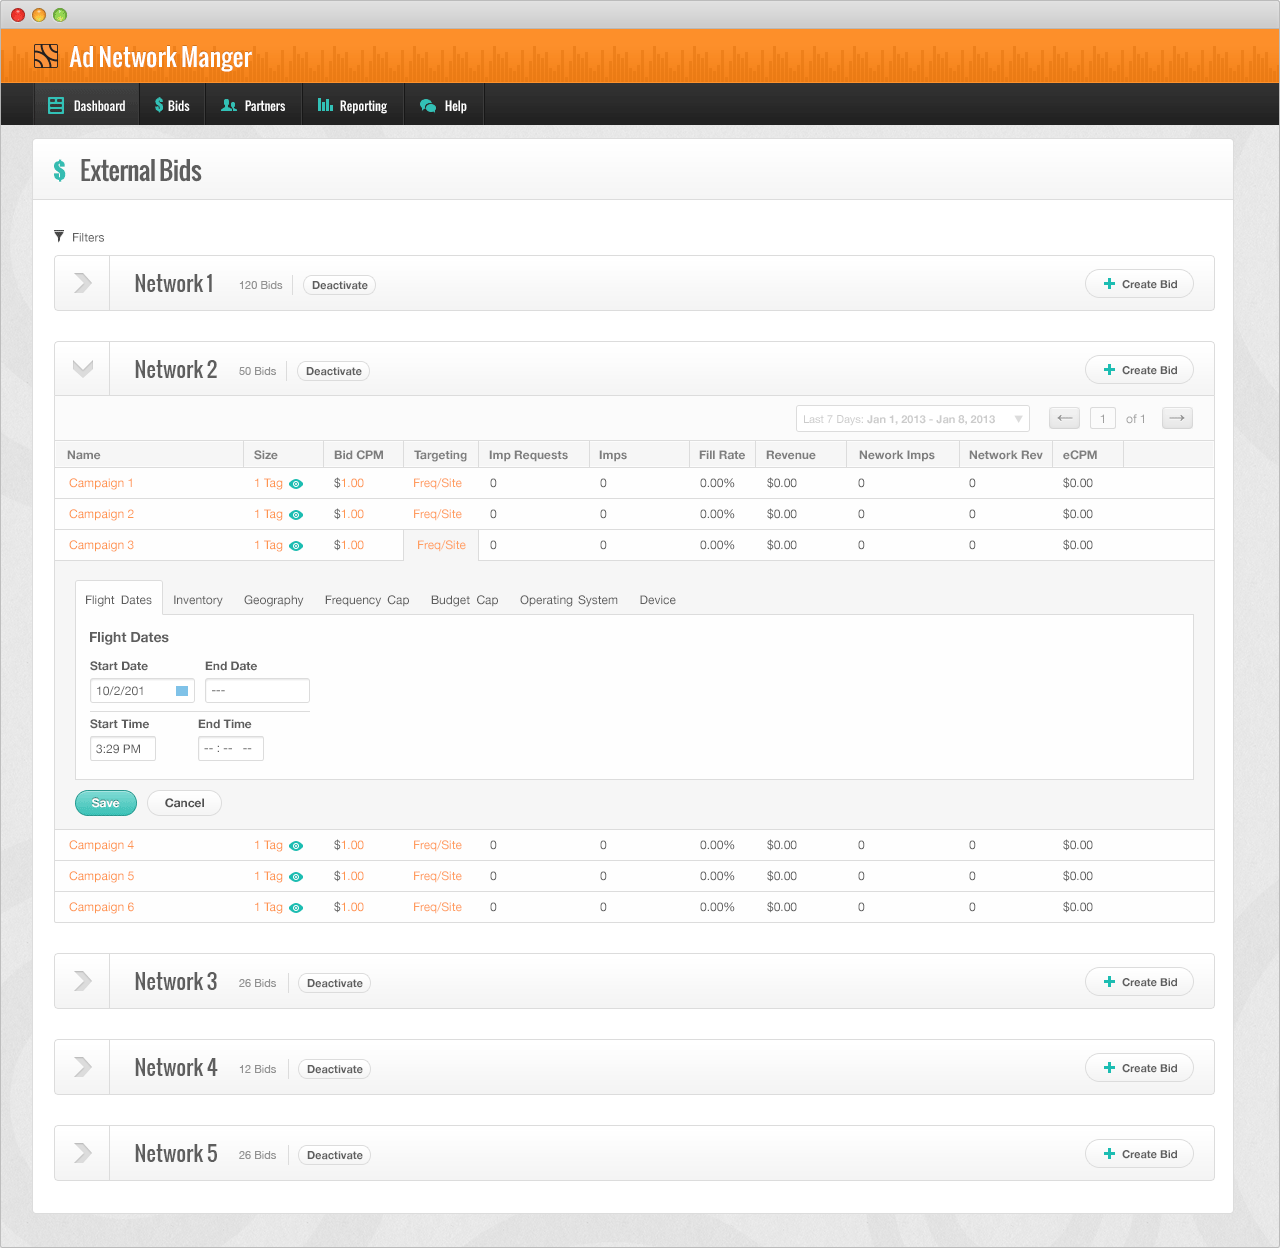
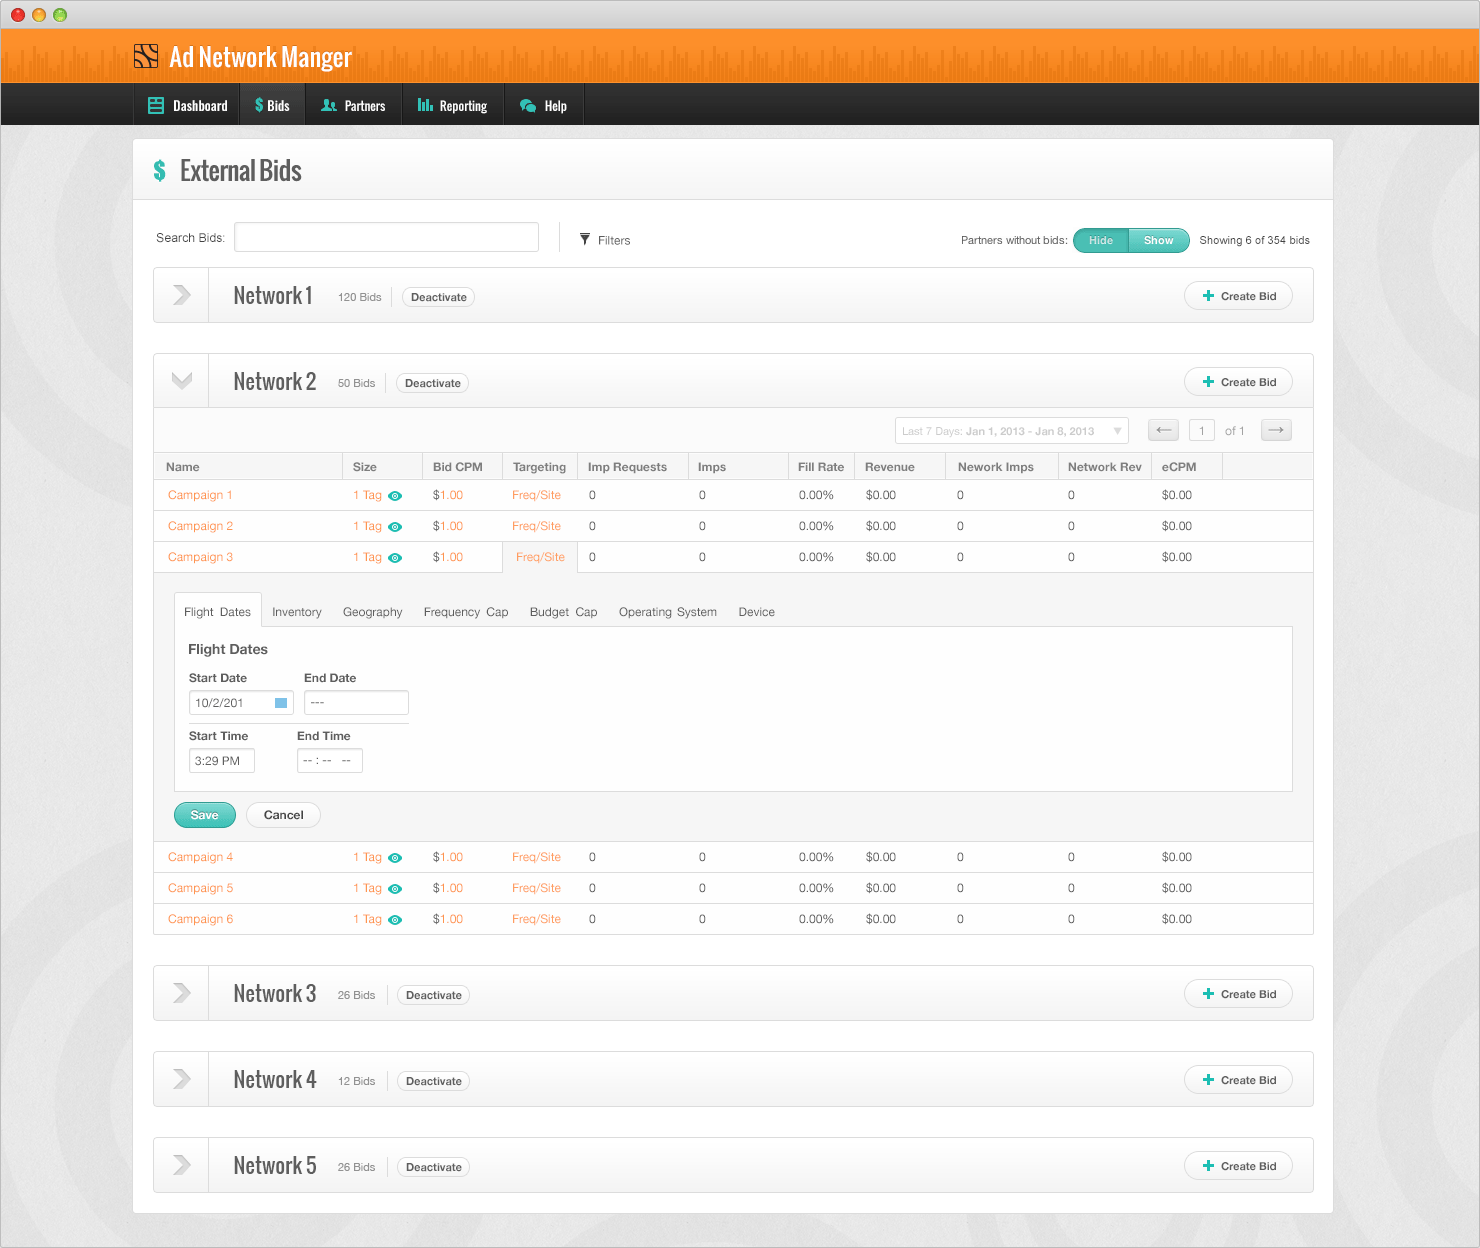
Update ANM case study

diff --git a/_works/appnexus-ad-network-manager.html b/_works/appnexus-ad-network-manager.html
@@ -7,8 +7,18 @@ excerpt1: At AppNexus, our newly formed team in Portland was tasked with creatin
 excerpt2: I was the lead designer for this project, which included all UX, Visual Design and Front-end HTML & CSS.
 ---
 
+<h2 class="Work-section">MEDIATION MADE EASY</h2>
 <p>At AppNexus, our newly formed team in Portland was tasked with creating a new application intended to ease the mediation process for publishers. Our massive, enterprise <a href="https://console.appnexus.com/login">Console</a> product made this process extremely time consuming and difficult for our users.</p>
 <p>I was the lead designer for this project, which included all UX, Visual Design and Front-end HTML & CSS.</p>
+
+<h2 class="Work-section">SPEED IS KING</h2>
+<p>Because AppNexus is a B2B business, we had strong relationships with most our clients. This made it relatively easy to consistently find willing users that were excited to help test designs. Throughout each test performed, a constant key was noted: Speed is king. The mediation process required the creation and management of what could possibly be thousands of campaigns, all with unique targeting and attributes. The goal of Ad Network Manager was to make this process much easier to manage and complete.</p>
+
+<p>In our initial tests we noticed users uniquely naming their campaigns as a way to easily locate and identify them. Due to the large quantity of them, they were looking for a way to quickly identity them. It was clear campaign filtering and search would be vital to their workflow. Neither of these features were as prominent in our inital designs. The first step was to create a filtering system, shown below.</p>
+<img class="Image" src="/assets/img/work/anm/anm_filters.png" />
+<p>The filters resulted in a huge decrease in time spent locating and managing campaigns, but the real key was going to be search. It needed to be upfront, discoverable and provide instant results. We tested a few options and found the greatest performance with the layout below.</p>
+<img class="Image" src="/assets/img/work/anm/anm_search.png" />
+<p>We made many iterations of ANM through the year we worked on it. However, the implementations of filtering and search, along with bulk campaign creation, literally saved our users hundreds of hours per week managing third-party campaigns. This allowed them to focus their attention of other areas of their business to increase revenue. Needless to say, they were quite delighted.</p>
 <img class="Image" src="/assets/img/work/anm/dashboard.png" />
 <img class="Image" src="/assets/img/work/anm/bid_table.png" />
 

diff --git a/_works/appnexus-tango.html b/_works/appnexus-tango.html
@@ -9,10 +9,10 @@ excerpt1: Tango was created as a marketplace to more easily connect buyers and s
 excerpt2: Tango was built from the ground-up within AppNexus' Console system. I acted as lead Visual Designer on the project, within the UX team.
 ---
 
-
+<h2 class="Work-section">COME TOGETHER, RIGHT NOW...</h2>
 <p>Tango was created as a marketplace to more easily connect buyers and sellers within the AppNexus ecosystem. It allows for better partner discoverability and access to new relationships customers may have never been aware of before the system was put in place.</p>
 
-<p>excerpt2: Tango was built from the ground-up within AppNexus' Console system. I acted as lead Visual Designer on the project, within the UX team.</p>
+<p>Tango was built from the ground-up within the AppNexus Console system. I acted as lead Visual Designer on the project, within the UX team. Because this was a new product within our framework, we'd be introducing many new layouts, features and components. I had to be sure our visual language and hierarchy stayed consistent with what had already been established. I acted as the bridge between UX and the front-end team to make this happen. In the end, we had a very successful product launch. You can see some of the mockups for the finished product below.</p>
 <img class="Image" src="/assets/img/work/tango/tango_graph.png" />
 <img class="Image" src="/assets/img/work/tango/command_center_btos.png" />
 <img class="Image" src="/assets/img/work/tango/create_trade.png" />

diff --git a/_works/teamsnap.html b/_works/teamsnap.html
@@ -17,9 +17,12 @@ layout: work
 <img src="/assets/img/work/teamsnap/teamsnap_redesign.png" />
 <p>Once we agreed on our visual language, we started to build a modular, component-based design system in Sketch as well as a hosted pattern library. The result was a framework that forced a consistent experience for our users from conception to feature release.</p>
 
-<img src="/assets/img/work/teamsnap/Schedule-detail.png" />
-<img src="/assets/img/work/teamsnap/Roster-cards.png" />
-<img src="/assets/img/work/teamsnap/Roster-Details.png" />
+<img class="Image" src="/assets/img/work/teamsnap/Schedule-Detail.png" />
+<img class="Image" src="/assets/img/work/teamsnap/Roster-Cards.png" />
+<img class="Image" src="/assets/img/work/teamsnap/Roster-Details.png" />
+<img class="Image" src="/assets/img/work/teamsnap/Media-Single-Photo.png" />
+<img class="Image" src="/assets/img/work/teamsnap/Plan-Select.png" />
+
 
 
 

diff --git a/_includes/google-analytics.html b/_includes/google-analytics.html
@@ -1,11 +1,10 @@
+<script async src="https://www.googletagmanager.com/gtag/js?id=UA-46985904-1"></script>
 <script>
-  (function(i,s,o,g,r,a,m){i['GoogleAnalyticsObject']=r;i[r]=i[r]||function(){
-  (i[r].q=i[r].q||[]).push(arguments)},i[r].l=1*new Date();a=s.createElement(o),
-  m=s.getElementsByTagName(o)[0];a.async=1;a.src=g;m.parentNode.insertBefore(a,m)
-  })(window,document,'script','https://www.google-analytics.com/analytics.js','ga');
+  window.dataLayer = window.dataLayer || [];
+  function gtag(){dataLayer.push(arguments);}
+  gtag('js', new Date());
 
-  ga('create', '{{ site.google_analytics }}', 'auto');
-  ga('send', 'pageview');
-
+  gtag('config', 'UA-46985904-1');
 </script>
+
   

diff --git a/_includes/pagination_dark.html b/_includes/pagination_dark.html
@@ -59,6 +59,6 @@
 <ul class="Pagination">
 	{% if prevPost.url %}
   <li><a class="Pagination-button Pagination-left" href="{{ prevPost.url }}"></a></li><!--
-  -->{% endif %}<li><a href="/" class="Pagination-button Pagination-button-dark Pagination-home"></a></li><!--
-  -->{% if nextPost.url %}<li><a class="Pagination-button Pagination-button-dark Pagination-right" href="{{ nextPost.url }}"></a></li>{% endif %}
+  -->{% endif %}<li><a href="/" class="Pagination-button Pagination-home"></a></li><!--
+  -->{% if nextPost.url %}<li><a class="Pagination-button Pagination-right" href="{{ nextPost.url }}"></a></li>{% endif %}
 </ul>

diff --git a/_includes/footer.html b/_includes/footer.html
@@ -1,7 +1,7 @@
 <footer>
 	<div class="Container">
 		<div class="Grid Grid--alignCenter">
-			<div class="Grid-cell u-size-full u-md-size3of4">
+			<div class="Grid-cell u-size-full u-md-size1of2">
 				<img src="/assets/img/mail_secondary.svg" alt="Mail Icon"/>
 				<h1 class="u-headingAlt">GET IN TOUCH</h1>
 				<p class="u-textAlt">I'm currently available for full-time and freelance projects. If you like what you see, use the button below to get a hold of me! <br/>Even if you don't like what you see, I'm always game for a friendly, random conversation.</p>

diff --git a/assets/css/main.css b/assets/css/main.css
@@ -342,11 +342,17 @@ header {
   width: 72px; }
 
 .Header-details-home {
-  margin-top: 80px; }
+  margin-top: 0; }
 
+@media (min-width: 768px) {
+  .Header-details-home {
+    margin-top: 80px; } }
 .Header-details-work {
-  margin-top: 120px; }
+  margin-top: 0; }
 
+@media (min-width: 768px) {
+  .Header-details-work {
+    margin-top: 120px; } }
 .Header-tagline, .Header-subtitle {
   color: #E4CA2F; }
 
@@ -633,7 +639,7 @@ footer {
 
 .Pagination {
   margin: 0;
-  padding: 0 0 48px 0; }
+  padding: 0; }
 
 .Pagination li {
   display: inline-block; }

diff --git a/assets/css/components/_header.scss b/assets/css/components/_header.scss
@@ -20,11 +20,23 @@ header {
 	height:72px;
 	width: 72px;
 }
-.Header-details-home {
-	margin-top: $su-xxxxlarge;
+
+.Header-details-home{
+  margin-top:0;
 }
-.Header-details-work {
-	margin-top:120px;
+@media (min-width: $breakpoint-sm) { 
+	.Header-details-home {
+		margin-top: $su-xxxxlarge;
+	}
+}
+
+.Header-details-work{
+  margin-top:0;
+}
+@media (min-width: $breakpoint-sm) { 
+	.Header-details-work {
+		margin-top:120px;
+	}
 }
 .Header-tagline, .Header-subtitle {
 	color: #E4CA2F;

diff --git a/_works/css-zen-garden-vegas.html b/_works/css-zen-garden-vegas.html
@@ -13,4 +13,4 @@ layout: work
 	<a href="http://www.showtimecreative.com/csszengarden" class="Button">View Project</a>
 </div>
 
-<img class="Image" src="{{ site.baseurl }}/assets/img/work/csszengarden/csszengarden_vegas.png" alt="CSS Zen Garden Vegas" />
+<img class="Image" src="/assets/img/work/csszengarden/csszengarden_vegas.png" alt="CSS Zen Garden Vegas" />

diff --git a/_layouts/work.html b/_layouts/work.html
@@ -18,7 +18,7 @@
               {{ content }}
           </div>
         </div>
-        <div class="u-size-full u-textCenter u-spaceTopLg">
+        <div class="u-size-full u-textCenter u-padEndsLg">
           {% include pagination.html %}
         </div>
       </div>

diff --git a/assets/css/components/_pagination.scss b/assets/css/components/_pagination.scss
@@ -1,6 +1,6 @@
 .Pagination {
 	margin: 0;
-	padding:0 0 $su-xxlarge 0;
+	padding:0;
 }
 	.Pagination li {
 		display: inline-block;
